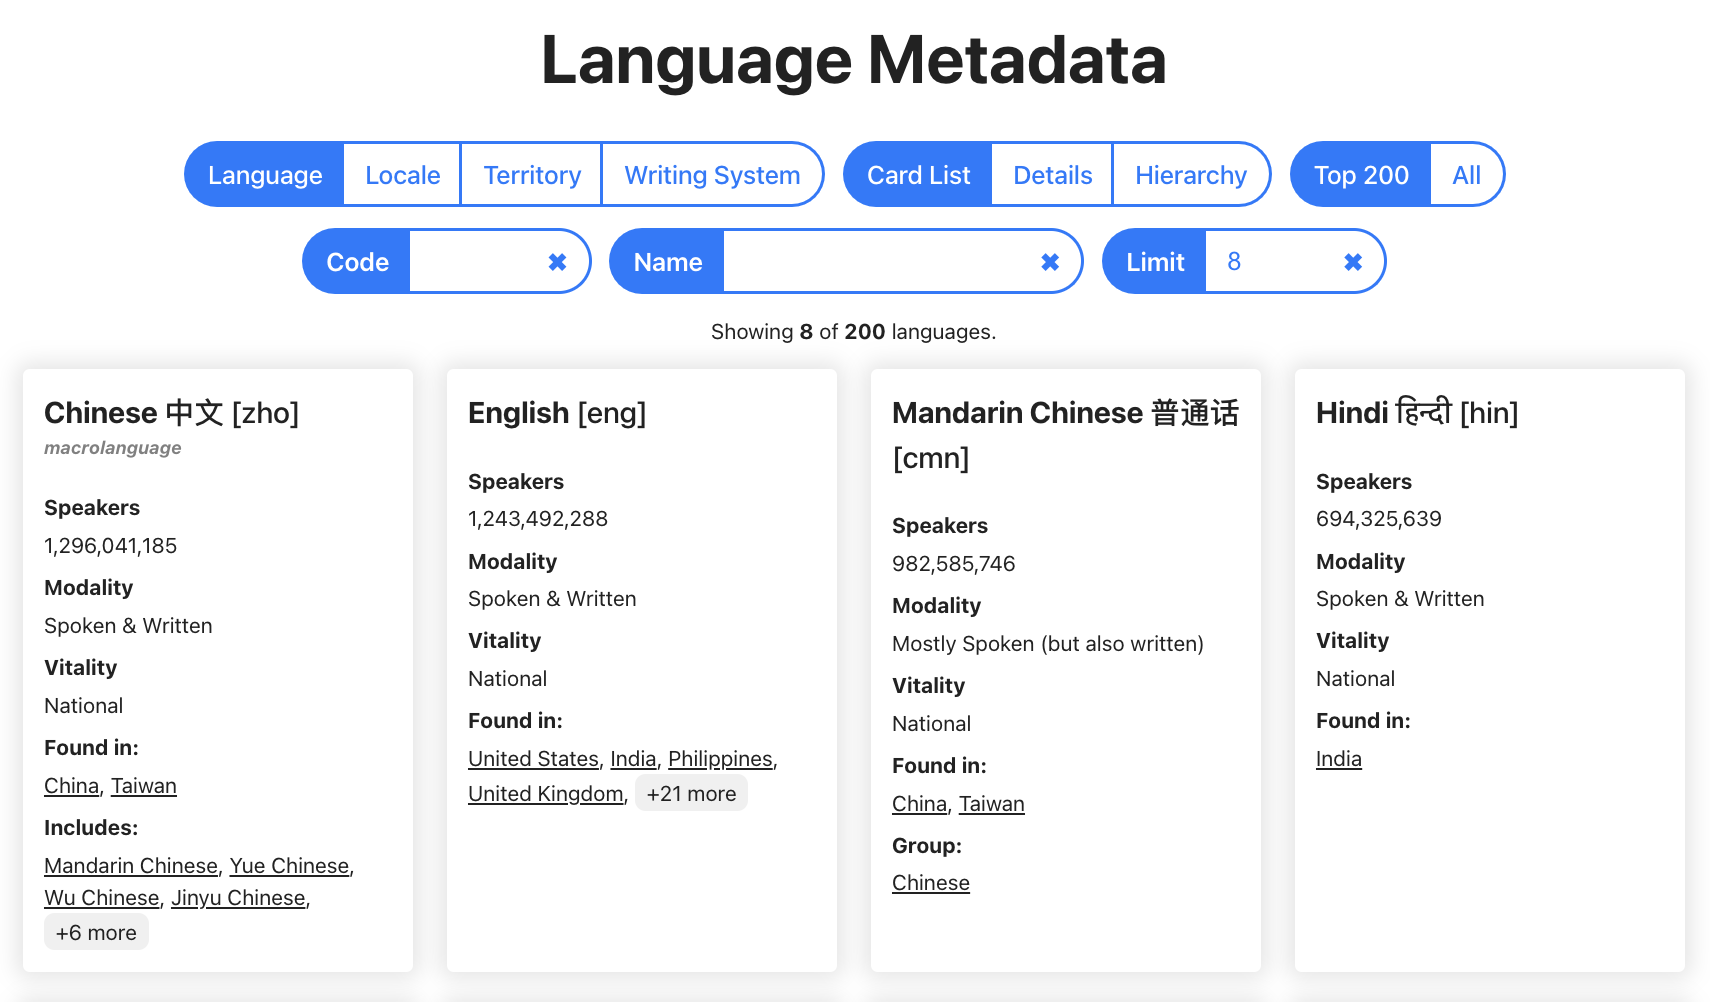
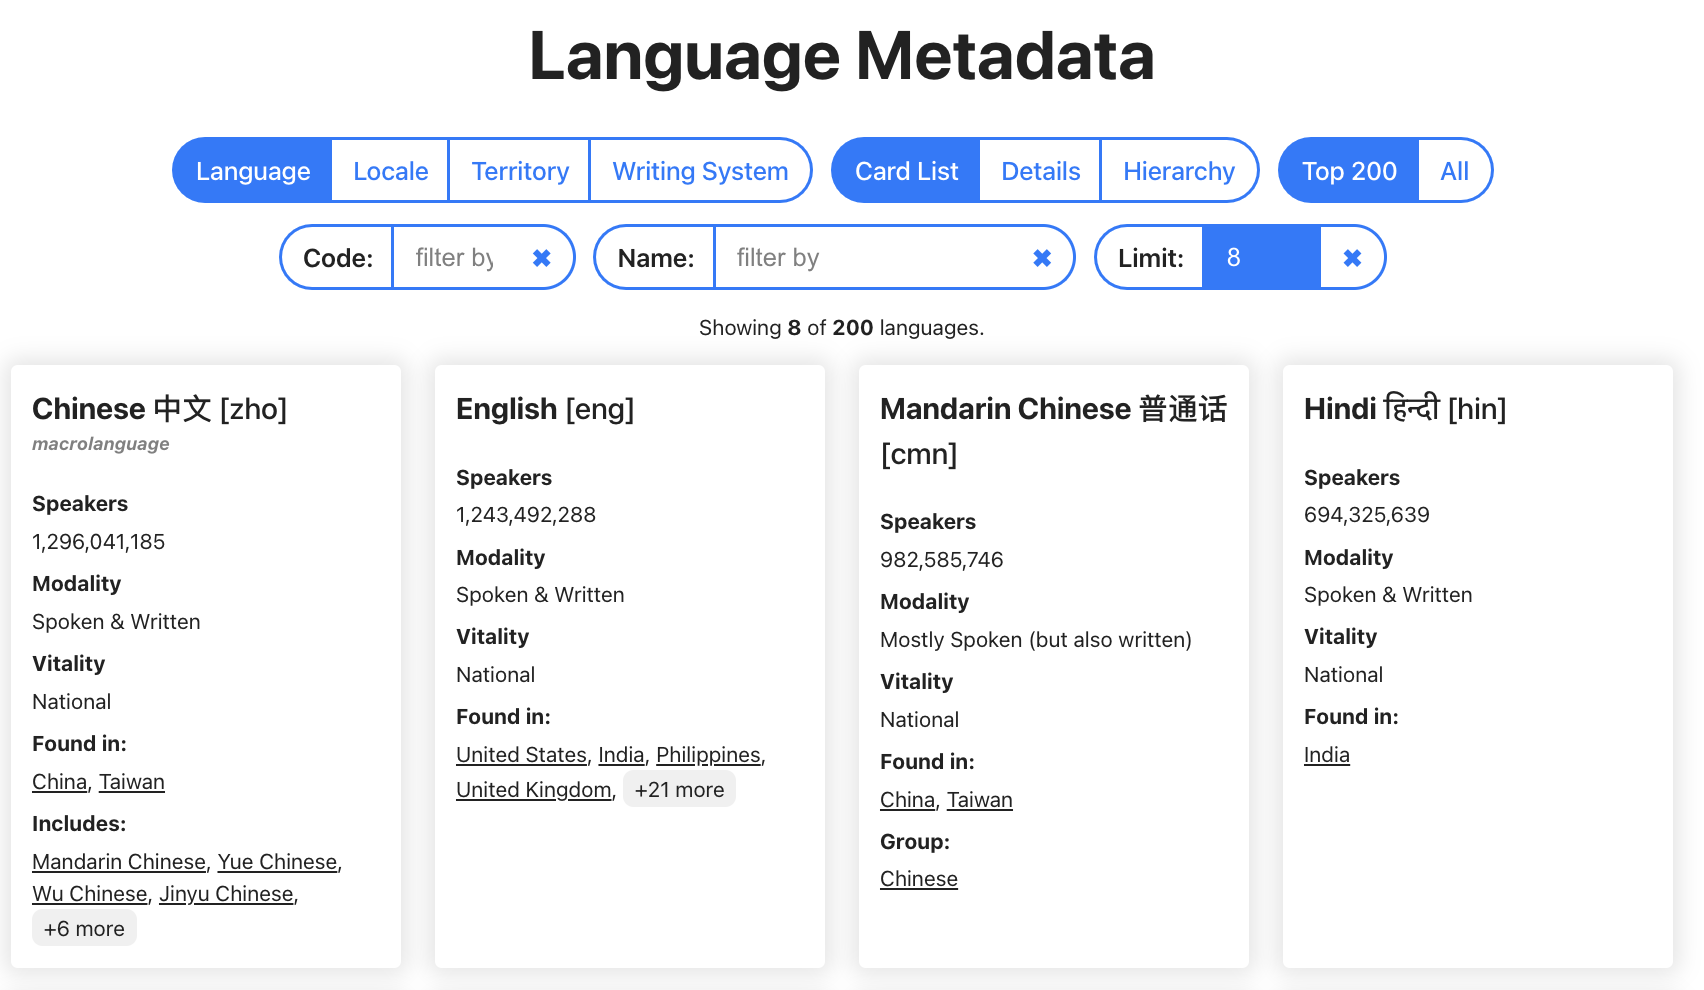
Quality of life: revamp input selector colors

diff --git a/src/controls/FilterControls.tsx b/src/controls/FilterControls.tsx
@@ -17,10 +17,11 @@ const FilterControls: React.FC = () => {
         }
       >
         <TextInput
-          label="Code"
+          label="Code:"
           value={code}
           onChange={(code: string) => updatePageParams({ code })}
           inputStyle={{ width: '3em' }}
+          placeholder="filter by"
         />
       </Hoverable>
       {viewType === ViewType.CardList && (
@@ -28,20 +29,22 @@ const FilterControls: React.FC = () => {
           hoverContent={`Filter the ${dimension.toLowerCase()} by its name. Caution: if you have too many items visible then this may jitter, so type slowly.`}
         >
           <TextInput
-            label="Name"
+            label="Name:"
             value={nameFilter}
             onChange={(nameFilter: string) => updatePageParams({ nameFilter })}
             inputStyle={{ width: '10em' }}
+            placeholder="filter by"
           />
         </Hoverable>
       )}
       {viewType === ViewType.CardList && (
         <Hoverable hoverContent={`Limit how many ${dimension.toLowerCase()} cards are shown.`}>
           <TextInput
-            label="Limit"
+            label="Limit:"
             value={limit < 1 || Number.isNaN(limit) ? '' : limit.toString()}
             onChange={(limit: string) => updatePageParams({ limit: parseInt(limit) })}
             inputStyle={{ width: '3em' }}
+            placeholder="&infin;"
           />
         </Hoverable>
       )}

diff --git a/src/controls/styles.css b/src/controls/styles.css
@@ -24,20 +24,29 @@
 }
 
 .selector input {
+    color: var(--color-background);
+    background: var(--color-button-primary);
+    padding: 0.50rem 1rem;
+}
+
+.selector input.empty {
     color: var(--color-button-primary);
     background: var(--color-background);
-    padding: 0.50rem 1rem;
+}
+
+.selector input::placeholder {
+    color: var(--color-text-secondary);
+    background: var(--color-background);
 }
 
 .selector button:hover {
     color: var(--color-background);
     background: var(--color-button-hover);
-    /* color: #0077d4;
-    background: #e0f1ff; */
 }
 
 .selector :focus {
     border-color: var(--color-button-hover);
+    background: var(--color-button-hover);
 }
 
 .selector :first-child {
@@ -50,9 +59,14 @@
     border-top-right-radius: 2em;
 }
 
-.selector .selected, .selector label {
+.selector .selected {
     background: var(--color-button-primary);
     color: var(--color-background);
+}
+
+.selector label {
+    background: var(--color-button-background);
+    color: var(--color-text);
 }
 
 .clear {

diff --git a/src/controls/TextInput.tsx b/src/controls/TextInput.tsx
@@ -1,21 +1,24 @@
 import React from 'react';
 
 type Props = {
-  label: string;
-  value: string;
-  onChange: (value: string) => void;
   inputStyle?: React.CSSProperties;
+  label: string;
+  onChange: (value: string) => void;
+  placeholder?: string;
+  value: string;
 };
 
-const TextInput: React.FC<Props> = ({ label, value, onChange, inputStyle }) => {
+const TextInput: React.FC<Props> = ({ label, value, onChange, inputStyle, placeholder }) => {
   return (
     <div className="selector">
       <label>{label}</label>
       <input
         type="text"
+        className={value === '' ? 'empty' : ''}
         value={value}
         onChange={(ev) => onChange(ev.target.value)}
         style={inputStyle}
+        placeholder={placeholder}
       />
       <button className="clear" type="button" onClick={() => onChange('')}>
         &#x2716;
